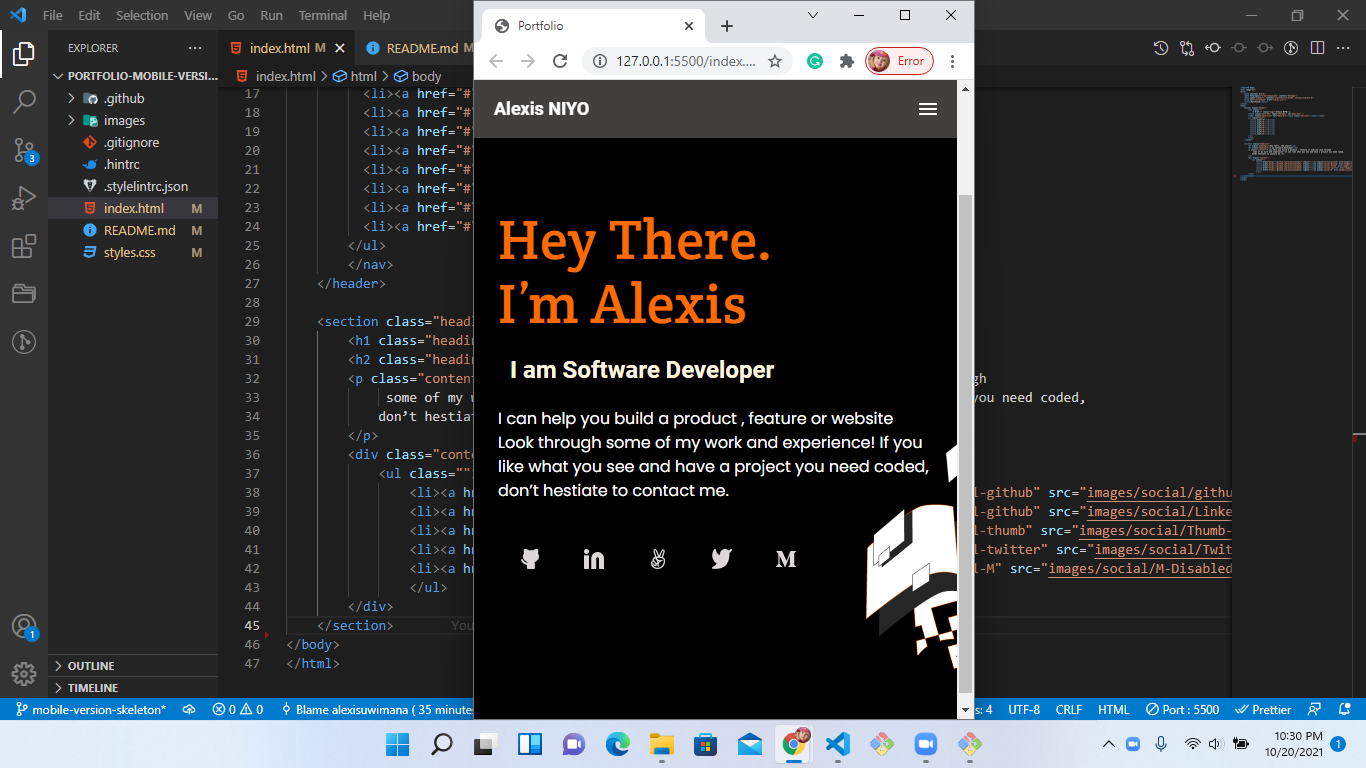
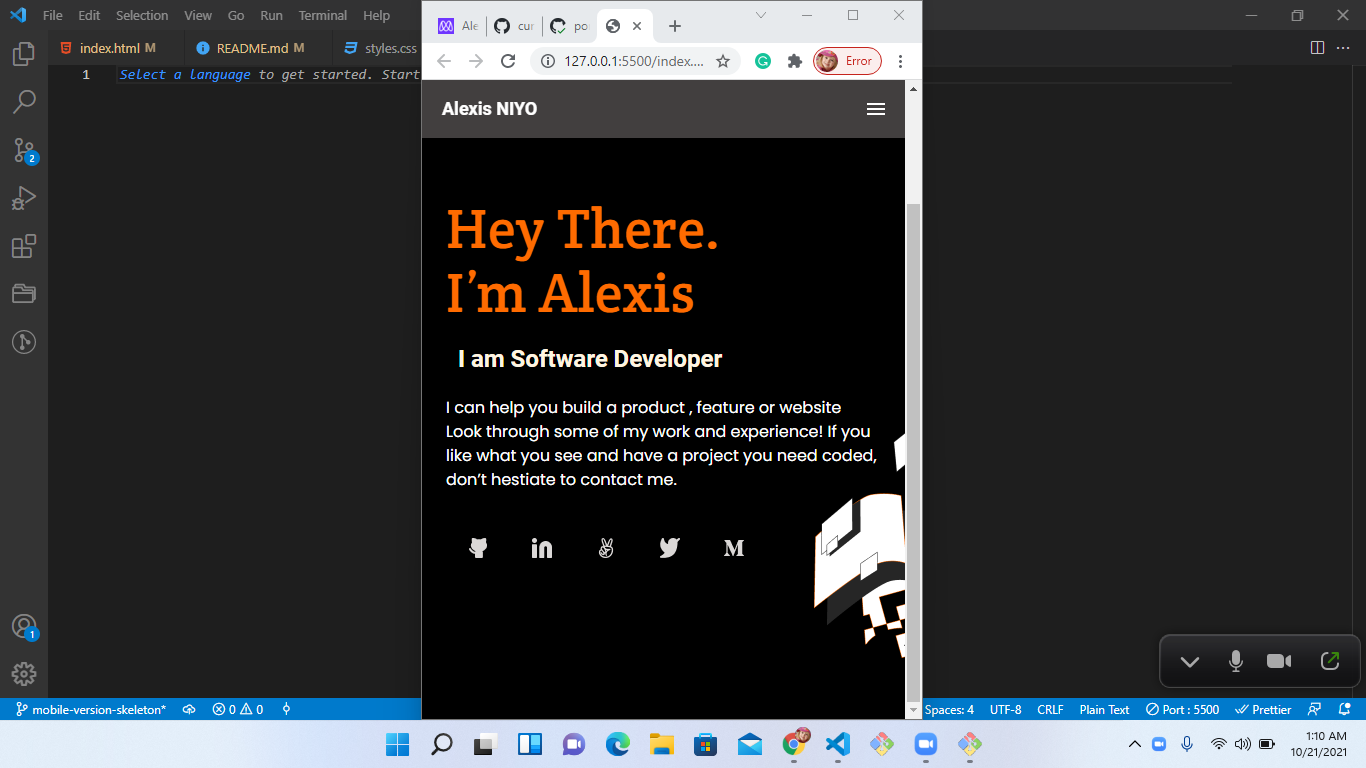
Add correction from code reviewer recommdandtions

diff --git a/index.html b/index.html
@@ -9,7 +9,7 @@
 </head>
 <body>
     <header class="header">
-        <nav class="">
+        <nav>
             <a href="" class="logo">Alexis NIYO</a>
         <input class="menu-btn" type="checkbox" id="menu-btn" />
         <label class="menu-icon" for="menu-btn"><span class="navicon"></span></label>
@@ -34,16 +34,14 @@
             don’t hestiate to contact me.<br>
         </p>
         <div class="content">
-            <ul class="">
+            <ul>
                 <li><a href="https://github.com/alexisuwimana" class=""><img class="social-github" src="images/social/github-v.png" alt="github"></a></li>
                 <li><a href="https://github.com/alexisuwimana" class=""><img class="social-github" src="images/social/Linkedin.png" alt="github"></a></li>
                 <li><a href="https://github.com/alexisuwimana" class=""><img class="social-thumb" src="images/social/Thumb-Enabled.png" alt="thumb"></a></li>
                 <li><a href="https://github.com/alexisuwimana" class=""><img class="social-twitter" src="images/social/Twitter.png" alt="twitter"></a></li>   
                 <li><a href="https://github.com/alexisuwimana" class=""><img class="social-M" src="images/social/M-Disabled.png" alt="M"></a></li>   
-                </ul>
+            </ul>
         </div>
     </section> 
-
-
 </body>
 </html>

diff --git a/styles.css b/styles.css
@@ -45,6 +45,7 @@ a {
 
 /* header */
 .header {
+  display: flex;
   background-color: rgb(66, 63, 63);
   box-shadow: 1px 1px 4px 0 rgba(0, 0, 0, 0.1);
   position: fixed;

diff --git a/README.md b/README.md
@@ -1,6 +1,6 @@
 ![](https://img.shields.io/badge/Microverse-blueviolet)
 
-# portfolio project
+# Portfolio Project
 
 > this is my first portifolio.
 
@@ -12,8 +12,6 @@ home page for mobile skeleton
 
 - HTML 
 - CSS
-- No framwork used in this project
-
 ## Live Demo
 
 [Live Demo Link](https://livedemo.com)
